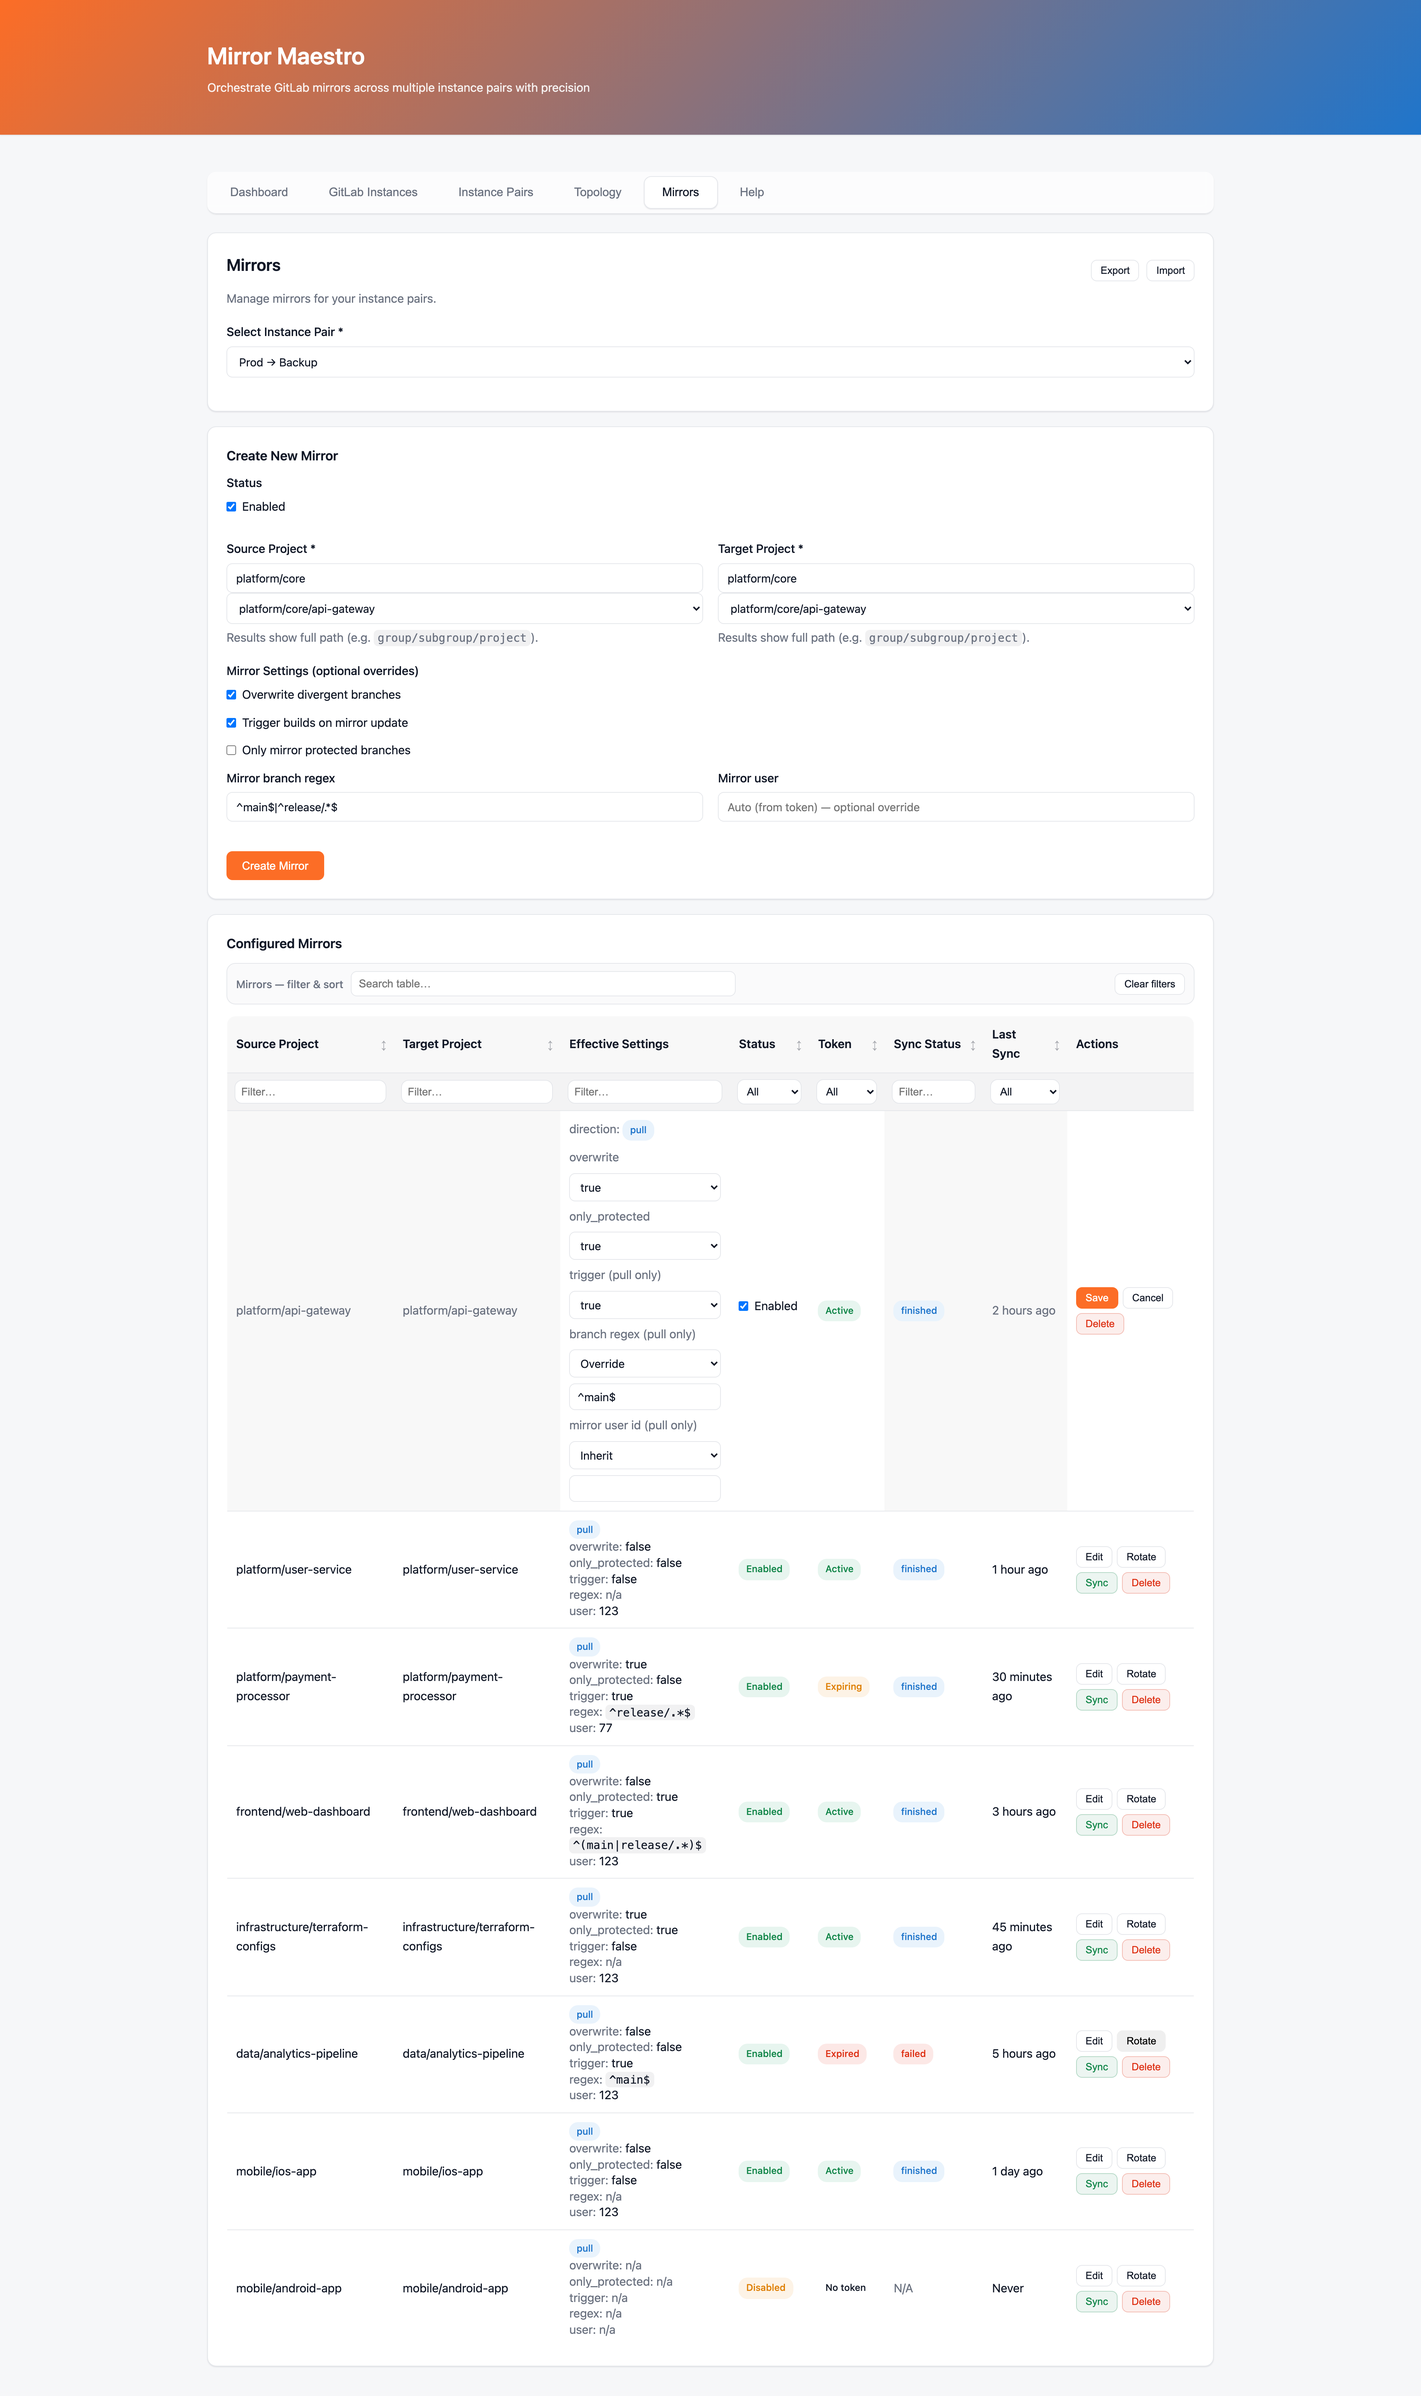
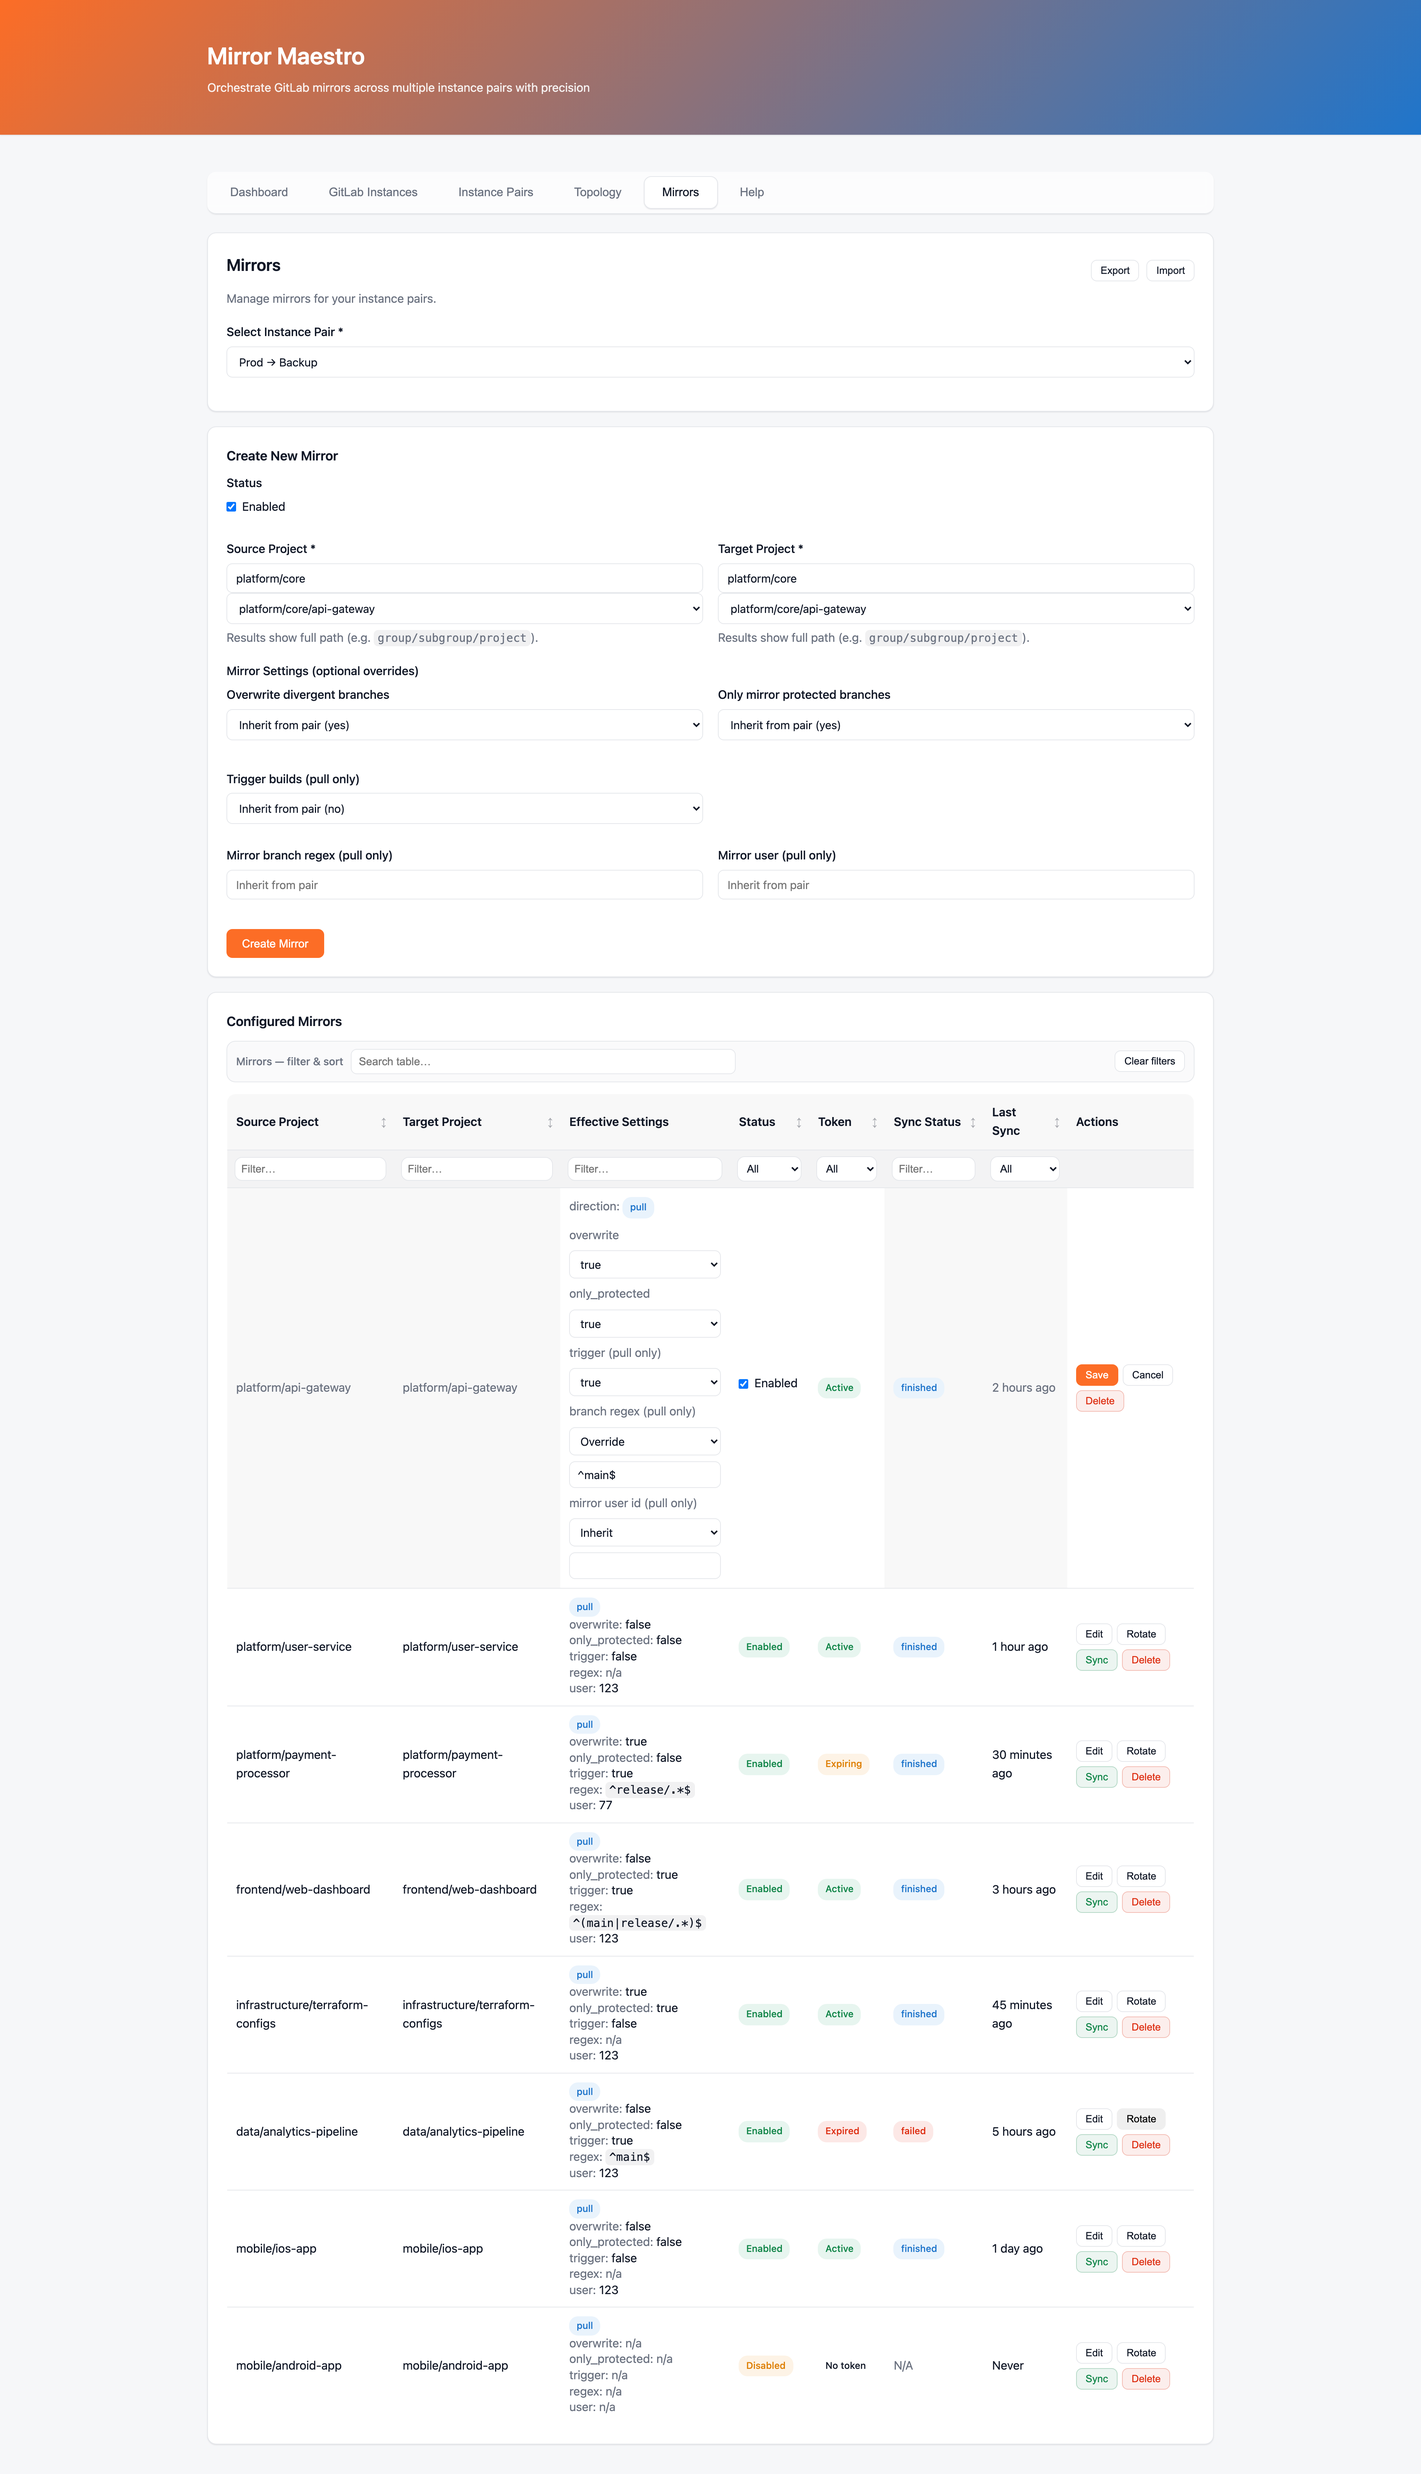
feat: Replace mirror create form checkboxes with tri-state selects
Replace binary checkboxes with tri-state dropdown selects for mirror
settings overrides. Each select shows "Inherit from pair (yes/no)" as
the default option, making it clear what value will be used if no
override is specified.

Changes:
- index.html: Replace checkboxes with select elements for overwrite,
  only_protected, and trigger settings
- app.js: Update resetMirrorOverrides() to handle selects, add
  updateMirrorFormPairDefaults() to show pair values in inherit options,
  update createMirror() to convert __inherit__ to null
- demo-mirrors.html: Update screenshot source to match new UI
- Regenerate affected screenshots

🤖 Generated with [Claude Code](https://claude.com/claude-code)

diff --git a/app/static/js/app.js b/app/static/js/app.js
@@ -1936,23 +1936,11 @@ async function searchProjectsForMirror(side) {
 }
 
 function resetMirrorOverrides() {
-    // Tri-state checkboxes (indeterminate => "use pair default" / don't send)
-    const triStateCheckboxIds = [
-        'mirror-overwrite',
-        'mirror-trigger',
-        'mirror-only-protected',
-    ];
-    triStateCheckboxIds.forEach((id) => {
+    // Reset all select overrides to "inherit from pair"
+    const selectIds = ['mirror-overwrite', 'mirror-trigger', 'mirror-only-protected'];
+    selectIds.forEach((id) => {
         const el = document.getElementById(id);
-        if (!el) return;
-        el.checked = false;
-        el.indeterminate = true;
-        el.title = 'Use pair default';
-        el.onchange = () => {
-            // Once the user interacts, treat it as an explicit override.
-            el.indeterminate = false;
-            el.title = '';
-        };
+        if (el) el.value = '__inherit__';
     });
 
     const regex = document.getElementById('mirror-branch-regex');
@@ -1964,6 +1952,48 @@ function resetMirrorOverrides() {
 
     const enabled = document.getElementById('mirror-enabled');
     if (enabled) enabled.checked = true;
+
+    // Update the inherit option texts to show pair defaults
+    updateMirrorFormPairDefaults();
+}
+
+function updateMirrorFormPairDefaults() {
+    const pair = state.pairs.find(p => p.id === state.selectedPair);
+    if (!pair) return;
+
+    const fmtBool = (v) => v ? 'yes' : 'no';
+
+    // Update each select's "inherit" option to show the pair's default
+    const overwriteEl = document.getElementById('mirror-overwrite');
+    if (overwriteEl) {
+        const inheritOpt = overwriteEl.querySelector('option[value="__inherit__"]');
+        if (inheritOpt) inheritOpt.textContent = `Inherit from pair (${fmtBool(pair.mirror_overwrite_diverged)})`;
+    }
+
+    const onlyProtectedEl = document.getElementById('mirror-only-protected');
+    if (onlyProtectedEl) {
+        const inheritOpt = onlyProtectedEl.querySelector('option[value="__inherit__"]');
+        if (inheritOpt) inheritOpt.textContent = `Inherit from pair (${fmtBool(pair.only_mirror_protected_branches)})`;
+    }
+
+    const triggerEl = document.getElementById('mirror-trigger');
+    if (triggerEl) {
+        const inheritOpt = triggerEl.querySelector('option[value="__inherit__"]');
+        if (inheritOpt) inheritOpt.textContent = `Inherit from pair (${fmtBool(pair.mirror_trigger_builds)})`;
+    }
+
+    // Update placeholders for text inputs to show pair defaults
+    const regexEl = document.getElementById('mirror-branch-regex');
+    if (regexEl) {
+        const pairRegex = pair.mirror_branch_regex;
+        regexEl.placeholder = pairRegex ? `Inherit: ${pairRegex}` : 'Inherit from pair (none)';
+    }
+
+    const userEl = document.getElementById('mirror-mirror-user-id');
+    if (userEl) {
+        const pairUser = pair.mirror_user_id;
+        userEl.placeholder = pairUser ? `Inherit: ${pairUser}` : 'Inherit from pair (auto)';
+    }
 }
 
 function applyMirrorDirectionUI(direction) {
@@ -2022,17 +2052,18 @@ async function createMirror() {
     const effectiveDirection = (pair?.mirror_direction || '').toString().toLowerCase();
     const isPush = effectiveDirection === 'push';
 
+    // Handle tri-state selects: "__inherit__" means omit (use pair default), otherwise convert to boolean
     const overwriteEl = document.getElementById('mirror-overwrite');
-    if (overwriteEl && !overwriteEl.indeterminate) {
-        data.mirror_overwrite_diverged = overwriteEl.checked;
+    if (overwriteEl && overwriteEl.value !== '__inherit__') {
+        data.mirror_overwrite_diverged = overwriteEl.value === 'true';
     }
     const triggerEl = document.getElementById('mirror-trigger');
-    if (triggerEl && !triggerEl.indeterminate && !isPush) {
-        data.mirror_trigger_builds = triggerEl.checked;
+    if (triggerEl && triggerEl.value !== '__inherit__' && !isPush) {
+        data.mirror_trigger_builds = triggerEl.value === 'true';
     }
     const onlyProtectedEl = document.getElementById('mirror-only-protected');
-    if (onlyProtectedEl && !onlyProtectedEl.indeterminate) {
-        data.only_mirror_protected_branches = onlyProtectedEl.checked;
+    if (onlyProtectedEl && onlyProtectedEl.value !== '__inherit__') {
+        data.only_mirror_protected_branches = onlyProtectedEl.value === 'true';
     }
 
     const regexRaw = (formData.get('mirror_branch_regex') || '').toString().trim();

diff --git a/docs/screenshots/demo-mirrors.html b/docs/screenshots/demo-mirrors.html
@@ -89,26 +89,40 @@
                     </div>
                     <div class="form-group">
                         <label>Mirror Settings (optional overrides)</label>
-                        <div class="checkbox-group">
-                            <input type="checkbox" id="mirror-overwrite" name="mirror_overwrite_diverged" checked>
-                            <label for="mirror-overwrite">Overwrite divergent branches</label>
-                        </div>
-                        <div class="checkbox-group">
-                            <input type="checkbox" id="mirror-trigger" name="mirror_trigger_builds" checked>
-                            <label for="mirror-trigger">Trigger builds on mirror update</label>
-                        </div>
-                        <div class="checkbox-group">
-                            <input type="checkbox" id="mirror-only-protected" name="only_mirror_protected_branches">
-                            <label for="mirror-only-protected">Only mirror protected branches</label>
+                        <div class="form-row">
+                            <div class="form-group">
+                                <label for="mirror-overwrite">Overwrite divergent branches</label>
+                                <select id="mirror-overwrite" name="mirror_overwrite_diverged" class="form-select">
+                                    <option value="__inherit__" selected>Inherit from pair (yes)</option>
+                                    <option value="true">Yes</option>
+                                    <option value="false">No</option>
+                                </select>
+                            </div>
+                            <div class="form-group">
+                                <label for="mirror-only-protected">Only mirror protected branches</label>
+                                <select id="mirror-only-protected" name="only_mirror_protected_branches" class="form-select">
+                                    <option value="__inherit__" selected>Inherit from pair (yes)</option>
+                                    <option value="true">Yes</option>
+                                    <option value="false">No</option>
+                                </select>
+                            </div>
+                            <div class="form-group">
+                                <label for="mirror-trigger">Trigger builds (pull only)</label>
+                                <select id="mirror-trigger" name="mirror_trigger_builds" class="form-select">
+                                    <option value="__inherit__" selected>Inherit from pair (no)</option>
+                                    <option value="true">Yes</option>
+                                    <option value="false">No</option>
+                                </select>
+                            </div>
                         </div>
                         <div class="form-row mt-10">
                             <div class="form-group">
-                                <label for="mirror-branch-regex">Mirror branch regex</label>
-                                <input type="text" id="mirror-branch-regex" name="mirror_branch_regex" value="^main$|^release/.*$" placeholder="Optional (e.g., ^main$|^release/.*$)">
+                                <label for="mirror-branch-regex">Mirror branch regex (pull only)</label>
+                                <input type="text" id="mirror-branch-regex" name="mirror_branch_regex" placeholder="Inherit from pair">
                             </div>
                             <div class="form-group">
-                                <label for="mirror-mirror-user-id">Mirror user</label>
-                                <input type="number" id="mirror-mirror-user-id" name="mirror_user_id" placeholder="Auto (from token) — optional override">
+                                <label for="mirror-mirror-user-id">Mirror user (pull only)</label>
+                                <input type="number" id="mirror-mirror-user-id" name="mirror_user_id" placeholder="Inherit from pair">
                             </div>
                         </div>
                     </div>

diff --git a/app/templates/index.html b/app/templates/index.html
@@ -340,26 +340,40 @@
                     </div>
                     <div class="form-group">
                         <label>Mirror Settings (optional overrides)</label>
-                        <div class="checkbox-group">
-                            <input type="checkbox" id="mirror-overwrite" name="mirror_overwrite_diverged">
-                            <label for="mirror-overwrite">Overwrite divergent branches</label>
-                        </div>
-                        <div class="checkbox-group">
-                            <input type="checkbox" id="mirror-trigger" name="mirror_trigger_builds">
-                            <label for="mirror-trigger">Trigger builds on mirror update</label>
-                        </div>
-                        <div class="checkbox-group">
-                            <input type="checkbox" id="mirror-only-protected" name="only_mirror_protected_branches">
-                            <label for="mirror-only-protected">Only mirror protected branches</label>
+                        <div class="form-row">
+                            <div class="form-group">
+                                <label for="mirror-overwrite">Overwrite divergent branches</label>
+                                <select id="mirror-overwrite" name="mirror_overwrite_diverged" class="form-select">
+                                    <option value="__inherit__" selected>Inherit from pair</option>
+                                    <option value="true">Yes</option>
+                                    <option value="false">No</option>
+                                </select>
+                            </div>
+                            <div class="form-group">
+                                <label for="mirror-only-protected">Only mirror protected branches</label>
+                                <select id="mirror-only-protected" name="only_mirror_protected_branches" class="form-select">
+                                    <option value="__inherit__" selected>Inherit from pair</option>
+                                    <option value="true">Yes</option>
+                                    <option value="false">No</option>
+                                </select>
+                            </div>
+                            <div class="form-group">
+                                <label for="mirror-trigger">Trigger builds (pull only)</label>
+                                <select id="mirror-trigger" name="mirror_trigger_builds" class="form-select">
+                                    <option value="__inherit__" selected>Inherit from pair</option>
+                                    <option value="true">Yes</option>
+                                    <option value="false">No</option>
+                                </select>
+                            </div>
                         </div>
                         <div class="form-row mt-10">
                             <div class="form-group">
-                                <label for="mirror-branch-regex">Mirror branch regex</label>
-                                <input type="text" id="mirror-branch-regex" name="mirror_branch_regex" placeholder="Optional (e.g., ^main$|^release/.*$)">
+                                <label for="mirror-branch-regex">Mirror branch regex (pull only)</label>
+                                <input type="text" id="mirror-branch-regex" name="mirror_branch_regex" placeholder="Inherit from pair">
                             </div>
                             <div class="form-group">
-                                <label for="mirror-mirror-user-id">Mirror user</label>
-                                <input type="number" id="mirror-mirror-user-id" name="mirror_user_id" placeholder="Auto (from token) — optional override">
+                                <label for="mirror-mirror-user-id">Mirror user (pull only)</label>
+                                <input type="number" id="mirror-mirror-user-id" name="mirror_user_id" placeholder="Inherit from pair">
                             </div>
                         </div>
                     </div>
